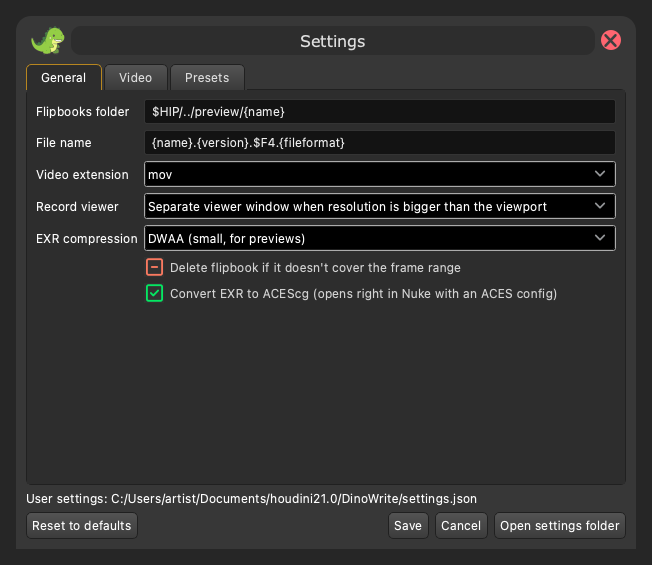
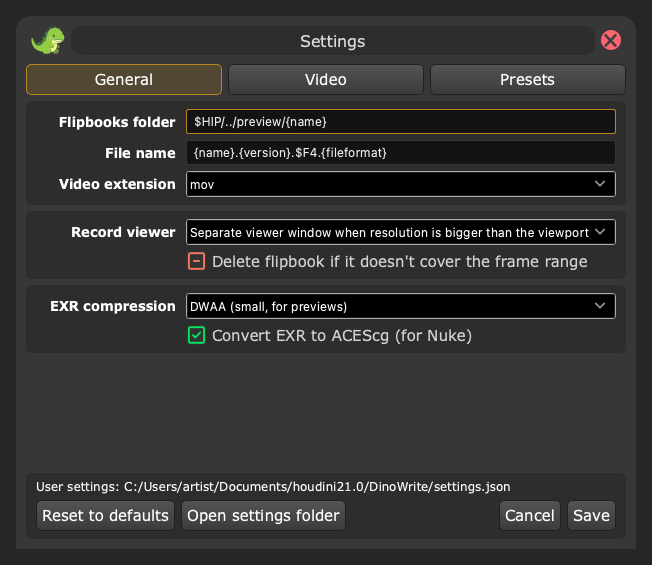
README images: new settings look

Changed region(s): [[0.0307, 0.0903, 0.9509, 0.6319], [0.0307, 0.8425, 0.9816, 0.9628]]

diff --git a/docs/make_images.py b/docs/make_images.py
@@ -154,10 +154,10 @@ def main():
         dialog = SettingsDialog()
         stopFade(dialog)
         dialog.show()
-        app.processEvents()
+        QTest.qWait(700)
         onBackground(dialog).save((DOCS / "settings.png").as_posix())
-        dialog.findChild(QtWidgets.QTabWidget).setCurrentIndex(1)
-        QTest.qWait(600)  # the page fades in
+        dialog.showPage(1)
+        QTest.qWait(700)  # the page's sections come in
         onBackground(dialog).save((DOCS / "settings_video.png").as_posix())
         dialog.close()
 
